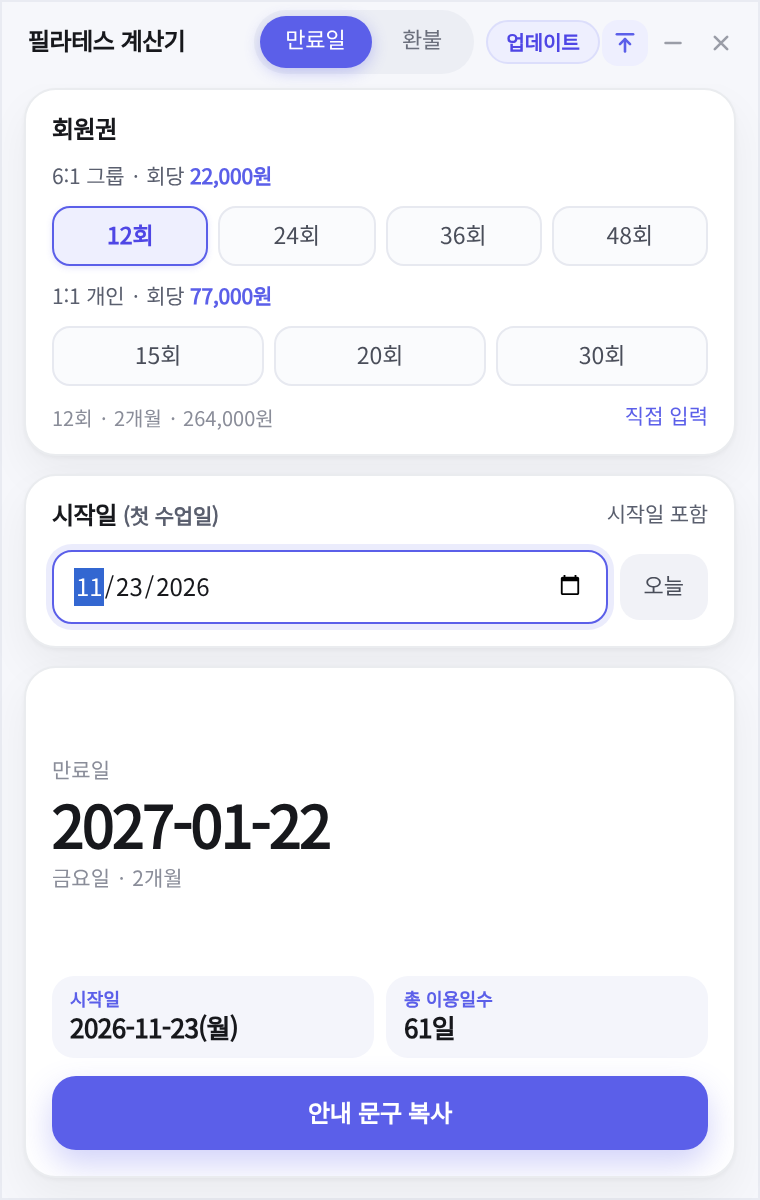
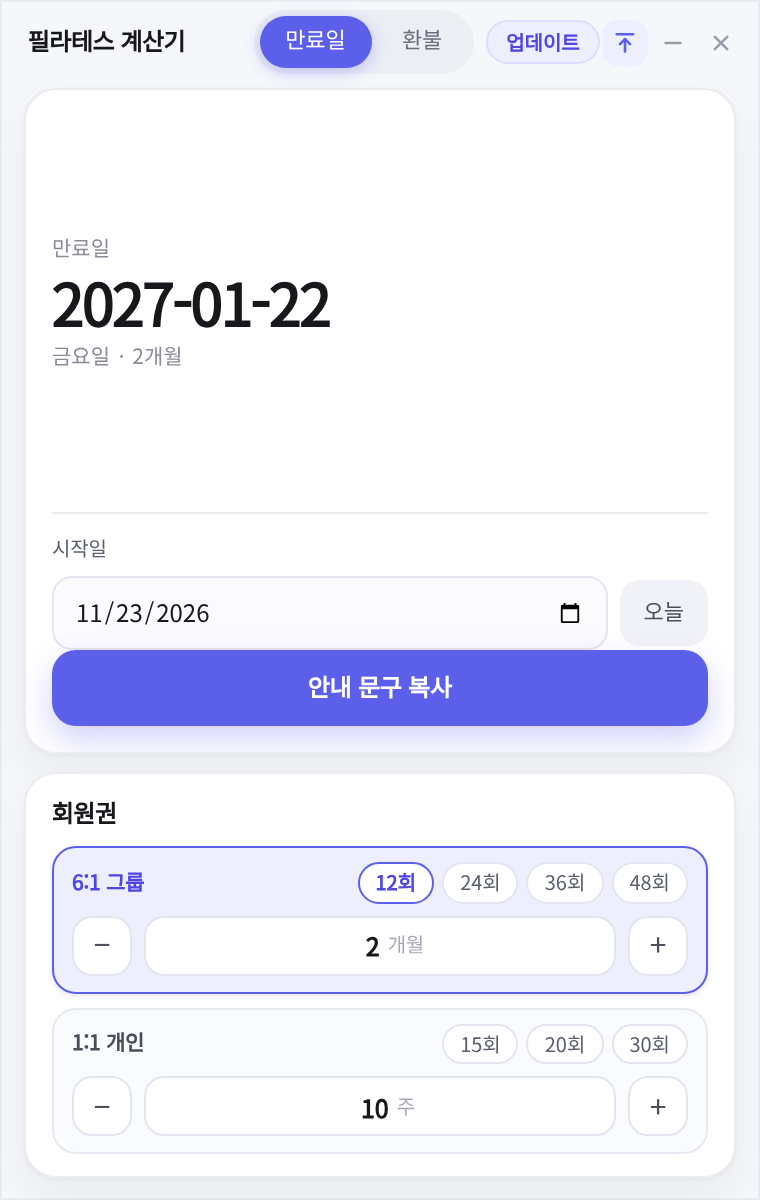
만료일 탭을 결과·시작일 한 카드로 통합해 맨 위에 두고, 기간 단위를 숫자 칸 안으로 이동

diff --git a/web/index.html b/web/index.html
@@ -137,11 +137,25 @@
   }
   .step:hover{background:#F2F3FA; border-color:#CFD2E0; color:var(--ink);}
   .step:disabled{color:#C9CCD6; cursor:default; background:#F7F8FC; border-color:#EDEFF5;}
-  .stepnum{
-    width:58px; flex:0 0 58px; text-align:center; padding:6px 4px; font-weight:700;
-    background:#fff; font-variant-numeric:tabular-nums;
+  /* 가운데 입력 박스: 숫자와 단위(개월/주)가 한 상자 안에 들어간다 */
+  .numbox{
+    position:relative; flex:1 1 auto; min-width:0; height:30px; display:flex; align-items:center;
+    justify-content:center; gap:4px; padding:0 10px; cursor:text;
+    background:#fff; border:1px solid #E3E6EE; border-radius:10px;
+    transition:border-color .12s,box-shadow .12s;
   }
-  .stepunit{font-size:10.5px; color:var(--label); margin-left:auto; padding-right:2px;}
+  .numbox:hover{border-color:#CFD2E0;}
+  .numbox:focus-within{border-color:var(--accent); box-shadow:0 0 0 3px rgba(91,95,233,.12);}
+  .numbox .stepnum{
+    width:1.75em; height:100%; border:0; border-radius:8px; background:transparent; outline:none;
+    padding:0; text-align:right; font:inherit; font-size:12.5px; font-weight:700;
+    color:var(--ink); font-variant-numeric:tabular-nums;
+  }
+  .numbox .stepnum:focus{background:transparent; border-color:transparent; box-shadow:none;}
+  .numbox .unit{
+    font-size:10px; font-weight:600; color:var(--muted2); letter-spacing:-.01em;
+    pointer-events:none; user-select:none;
+  }
 
   /* ---------- 결과 ---------- */
   .result{
@@ -162,6 +176,7 @@
     margin:9px 0 9px; display:grid; grid-template-columns:1fr 1fr; gap:6px;
     overflow-y:auto; min-height:0; scrollbar-width:thin; align-content:start;
   }
+  .kpis:empty{display:none;}
   .kpis::-webkit-scrollbar{width:4px;}
   .kpis::-webkit-scrollbar-thumb{background:#DFE1EA; border-radius:4px;}
   .kpis.is-single{grid-template-columns:1fr;}
@@ -182,6 +197,17 @@
   }
   .copy:hover{background:var(--accent-dark); box-shadow:0 7px 16px rgba(79,70,229,.32);}
   .copy:disabled{background:#E8EAF2; color:#A7AAB5; cursor:default; box-shadow:none;}
+  /* 결과 카드 안: 시작일 줄 */
+  .startblock{margin-top:10px; padding-top:10px; border-top:1px solid var(--line);}
+  .startlbl{display:block; font-size:10px; font-weight:600; color:var(--label); margin-bottom:6px; letter-spacing:-.01em;}
+
+  /* 탭별 카드 순서 — 만료일: 결과 카드가 맨 위 / 환불: 회원권 → 결제금액 → 결과 */
+  main.is-date #result-panel{order:1;}
+  main.is-date #membership{order:2;}
+  main.is-refund #membership{order:1;}
+  main.is-refund #panel-refund{order:2;}
+  main.is-refund #result-panel{order:3;}
+
   .toast{
     position:fixed; left:50%; bottom:14px; transform:translate(-50%,6px); background:#1C1D24; color:#fff;
     font-size:10.5px; font-weight:600; padding:7px 13px; border-radius:999px; opacity:0; pointer-events:none;
@@ -222,8 +248,25 @@
     </div>
   </header>
 
-  <main>
-    <section class="card">
+  <main id="main" class="is-date">
+    <section class="result" id="result-panel">
+      <div class="hero">
+        <p class="rlabel" id="r-label">만료일</p>
+        <p class="big is-empty" id="big">—</p>
+        <p class="sub" id="sub">시작일을 선택하세요</p>
+      </div>
+      <div class="startblock" id="panel-date">
+        <span class="startlbl">시작일</span>
+        <div class="inline">
+          <input id="d-start" type="date">
+          <button class="ghost" id="d-today" type="button">오늘</button>
+        </div>
+      </div>
+      <div class="kpis" id="facts"></div>
+      <button class="copy" id="copy" type="button" disabled>안내 문구 복사</button>
+    </section>
+
+    <section class="card" id="membership">
       <div class="card-head">
         <span class="card-title">회원권</span>
         <span class="hint" id="rate-note"></span>
@@ -236,9 +279,11 @@
           </div>
           <div class="stepper">
             <button class="step" type="button" data-kind="group" data-step="-1" aria-label="그룹 기간 줄이기">−</button>
-            <input class="stepnum" id="num-group" data-kind="group" type="number" min="1" step="1" inputmode="numeric" value="2" aria-label="그룹 기간">
+            <label class="numbox">
+              <input class="stepnum" id="num-group" data-kind="group" type="number" min="1" max="99" step="1" inputmode="numeric" value="2" aria-label="그룹 기간(개월)">
+              <span class="unit">개월</span>
+            </label>
             <button class="step" type="button" data-kind="group" data-step="1" aria-label="그룹 기간 늘리기">+</button>
-            <span class="stepunit">개월</span>
           </div>
         </div>
         <div class="mrow" data-kind="personal">
@@ -248,9 +293,11 @@
           </div>
           <div class="stepper">
             <button class="step" type="button" data-kind="personal" data-step="-1" aria-label="개인 기간 줄이기">−</button>
-            <input class="stepnum" id="num-personal" data-kind="personal" type="number" min="1" step="1" inputmode="numeric" value="10" aria-label="개인 기간">
+            <label class="numbox">
+              <input class="stepnum" id="num-personal" data-kind="personal" type="number" min="1" max="99" step="1" inputmode="numeric" value="10" aria-label="개인 기간(주)">
+              <span class="unit">주</span>
+            </label>
             <button class="step" type="button" data-kind="personal" data-step="1" aria-label="개인 기간 늘리기">+</button>
-            <span class="stepunit">주</span>
           </div>
         </div>
       </div>
@@ -282,16 +329,6 @@
       </div>
     </section>
 
-    <section class="card" id="panel-date">
-      <div class="card-head">
-        <span class="card-title">시작일</span>
-      </div>
-      <div class="inline">
-        <input id="d-start" type="date">
-        <button class="ghost" id="d-today" type="button">오늘</button>
-      </div>
-    </section>
-
     <section class="card" id="panel-refund" hidden>
       <div class="card-head">
         <span class="card-title">결제금액 · 사용 횟수</span>
@@ -307,16 +344,6 @@
           <span class="suffix">회</span>
         </div>
       </div>
-    </section>
-
-    <section class="result">
-      <div class="hero">
-        <p class="rlabel" id="r-label">만료일</p>
-        <p class="big is-empty" id="big">—</p>
-        <p class="sub" id="sub">시작일을 선택하세요</p>
-      </div>
-      <div class="kpis" id="facts"></div>
-      <button class="copy" id="copy" type="button" disabled>안내 문구 복사</button>
     </section>
   </main>
   <div class="toast" id="toast">복사했습니다</div>
@@ -423,7 +450,7 @@
       row.classList.toggle("is-active", active);
       const num = row.querySelector(".stepnum");
       if (document.activeElement !== num) num.value = value;
-      row.querySelector(".stepunit").textContent = unitSymbol(active ? state.unit : KIND_UNIT[kind]);
+      row.querySelector(".numbox .unit").textContent = unitSymbol(active ? state.unit : KIND_UNIT[kind]);
       row.querySelector('[data-step="-1"]').disabled = value <= 1;
     });
   }
@@ -546,9 +573,8 @@
     }
     setBig(out.expiry, {});
     setSub((WEEKDAY_FULL[out.expiry_weekday] || "") + " · " + m.periodText);
-    setFacts([
-      {k: "시작일", v: out.start_text}
-    ]);
+    // 시작일은 위 카드의 날짜 입력 칸에 그대로 보이므로 KPI 박스로 또 반복하지 않는다.
+    setFacts([]);
     guideText = out.guide_text;
     copyBtn.disabled = false;
   }
@@ -618,6 +644,9 @@
 
   function switchTab(next) {
     tab = next;
+    const mainEl = $("main");
+    mainEl.classList.toggle("is-date", next === "date");
+    mainEl.classList.toggle("is-refund", next === "refund");
     document.querySelectorAll(".seg-btn").forEach((el) => el.classList.toggle("is-active", el.dataset.tab === next));
     $("panel-date").hidden = next !== "date";
     $("panel-refund").hidden = next !== "refund";

diff --git a/README.md b/README.md
@@ -19,9 +19,10 @@
 
 - 기본 크기 **380 × 600** 의 작은 창입니다. 테두리 없는 창이라 상단 제목 부분을 잡고 옮깁니다.
 - 상단 오른쪽 **항상 위 고정**(핀) 토글과 최소화·닫기 아이콘.
-- 만료일 탭 회원권 카드는 **6:1 그룹(개월)**·**1:1 개인(주)** 두 줄 스테퍼(`− [숫자] +`)입니다. `12회` 같은 프리셋을 누르면 그 줄에 기본 기간이 들어가고 줄이 인디고로 강조되며, 가운데 숫자를 직접 고쳐 쓰거나 `−`·`+`로 이벤트 기간을 바로 조절합니다.
+- 만료일 탭 맨 위 카드 하나에 **만료일 결과 · 시작일 입력 · `안내 문구 복사`** 가 함께 들어 있습니다. 만료일과 요일·기간이 큰 글씨로 보이고, 그 아래에서 달력으로 시작일을 바꾸거나 `오늘`로 되돌립니다.
+- 만료일 탭 회원권 카드는 **6:1 그룹(개월)**·**1:1 개인(주)** 두 줄 스테퍼(`− [숫자 개월] +`)입니다. `12회` 같은 프리셋을 누르면 그 줄에 기본 기간이 들어가고 줄이 인디고로 강조되며, 가운데 칸의 숫자를 직접 고쳐 쓰거나 `−`·`+`로 이벤트 기간을 바로 조절합니다. 단위(`개월`·`주`)는 숫자 칸 안 오른쪽에 작고 연한 회색으로 붙어 있습니다.
 - **회당 단가(22,000원·77,000원)는 환불 탭에서만** 표시합니다(금액을 띄워 실제 결제금액 입력과 헷갈리지 않게).
-- 결과는 카드형 KPI 박스로 정리됩니다(만료일 탭: 시작일 / 환불 탭: 결제금액·위약금 10%·사용 차감·잔여 횟수).
+- 환불 탭 결과는 카드형 KPI 박스로 정리됩니다(결제금액·위약금 10%·사용 차감·잔여 횟수).
 - 창을 옮긴 위치와 `📌` 상태는 `%APPDATA%\PilatesCalc\state.json` 에 저장되어 다시 열 때 그대로 복원됩니다.
 - 새 버전이 릴리즈되면 제목 옆에 **업데이트** 버튼이 나타나 Releases 페이지를 엽니다.
 
@@ -33,7 +34,7 @@
 - **시작일 포함** 기준입니다.
   - `N개월`: 시작일 + N개월(해당 월 말일 보정) - 1일 → `2026-11-23` + 2개월 = `2027-01-22`
   - `N주`: 시작일 + (N × 7 - 1)일 → `2026-11-23` + 10주 = `2027-01-31`
-- 결과: 만료일과 요일, 기간, 시작일. `안내 문구 복사` 버튼으로 회원에게 보낼 문구(이용 기간 총 일수 포함)를 복사합니다.
+- 결과 카드(맨 위)에 만료일과 요일·기간이 크게 나오고, 바로 아래에서 시작일을 고릅니다. `안내 문구 복사` 버튼으로 회원에게 보낼 문구(이용 기간 총 일수 포함)를 복사합니다.
 
 ### 환불금액
 - 공식: `결제금액 - 위약금(결제금액의 10%) - (사용횟수 × 회당 차감액)`
